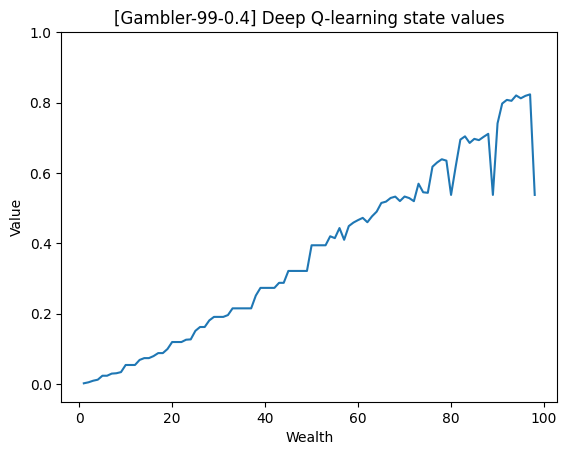
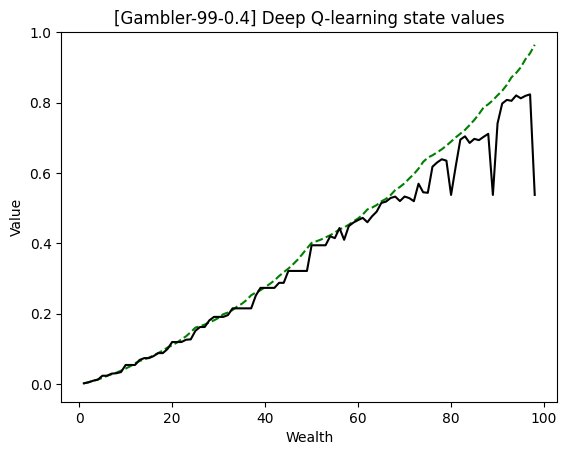
add true values

diff --git a/plot.py b/plot.py
@@ -22,7 +22,7 @@ def get_env_key(data: dict) -> str:
     win_prob = data["win_prob"]
     return f"[Gambler-{target_wealth}-{win_prob}]"
 
-def get_q_table_values(q_table: list[list[int]], target_wealth: int) -> tuple[list[int], list[int]]:
+def get_q_table_values(q_table: list[list[int]], target_wealth: int) -> tuple[list[int], list[float]]:
     """Computes the predicted value of each state for a Q-table."""
     states = list(range(1, target_wealth))
     values = []
@@ -43,7 +43,7 @@ def get_q_table_policy(q_table: list[list[int]], target_wealth: int) -> tuple[li
         actions.append(action + 1)
     return (states, actions)
 
-def get_q_network_values(model: nn.Module, target_wealth: int) -> tuple[list[int], list[int]]:
+def get_q_network_values(model: nn.Module, target_wealth: int) -> tuple[list[int], list[float]]:
     """Queries a Q-value network for the predicted value of each state."""
     states = list(range(1, target_wealth))
     values = []
@@ -94,10 +94,17 @@ def plot_training_run(data: dict, params: dict, save_path: str):
 
     figure.savefig(save_path, bbox_inches="tight")
 
-def plot_values(states: list[int], values: list[int], params: dict, save_path: str):
+def plot_values(
+    states: list[int],
+    values: list[float],
+    true_values: list[float],
+    params: dict,
+    save_path: str,
+):
     """Plots the predicted value of each state."""
     figure, axes = plt.subplots()
-    axes.plot(states, values)
+    axes.plot(states, true_values, linestyle="dashed", c="green")
+    axes.plot(states, values, c="black")
     axes.set_ylim(params["y_limits"][0], params["y_limits"][1])
 
     axes.set_title(f"{params['env_key']} {params['title']}")
@@ -122,6 +129,7 @@ def plot_tabular_q(key: int):
     """Generates charts for a tabular Q-learning run."""
     data = load_data(f"data/tabular_q_data_{key}.json")
     q_table = load_data(f"data/tabular_q_model_{key}.json")
+    true_values = load_data(f"data/state_values_{key}.json")
     env_key = get_env_key(data)
     values = get_q_table_values(q_table, data["target_wealth"])
     policy = get_q_table_policy(q_table, data["target_wealth"])
@@ -140,6 +148,7 @@ def plot_tabular_q(key: int):
     plot_values(
         values[0],
         values[1],
+        true_values[1:-1],
         {
             "env_key": env_key,
             "title": "Tabular Q-learning state values",
@@ -166,6 +175,7 @@ def plot_deep_q(name: str, hidden_size: int, key: int):
     """Generates charts for a deep Q-learning run."""
     data = load_data(f"data/{name}_data_{key}.json")
     model_state = torch.load(f"data/{name}_model_{key}.pt", weights_only=True)
+    true_values = load_data(f"data/state_values_{key}.json")
     env_key = get_env_key(data)
 
     target_wealth = data["target_wealth"]
@@ -188,6 +198,7 @@ def plot_deep_q(name: str, hidden_size: int, key: int):
     plot_values(
         values[0],
         values[1],
+        true_values[1:-1],
         {
             "env_key": env_key,
             "title": "Deep Q-learning state values",
